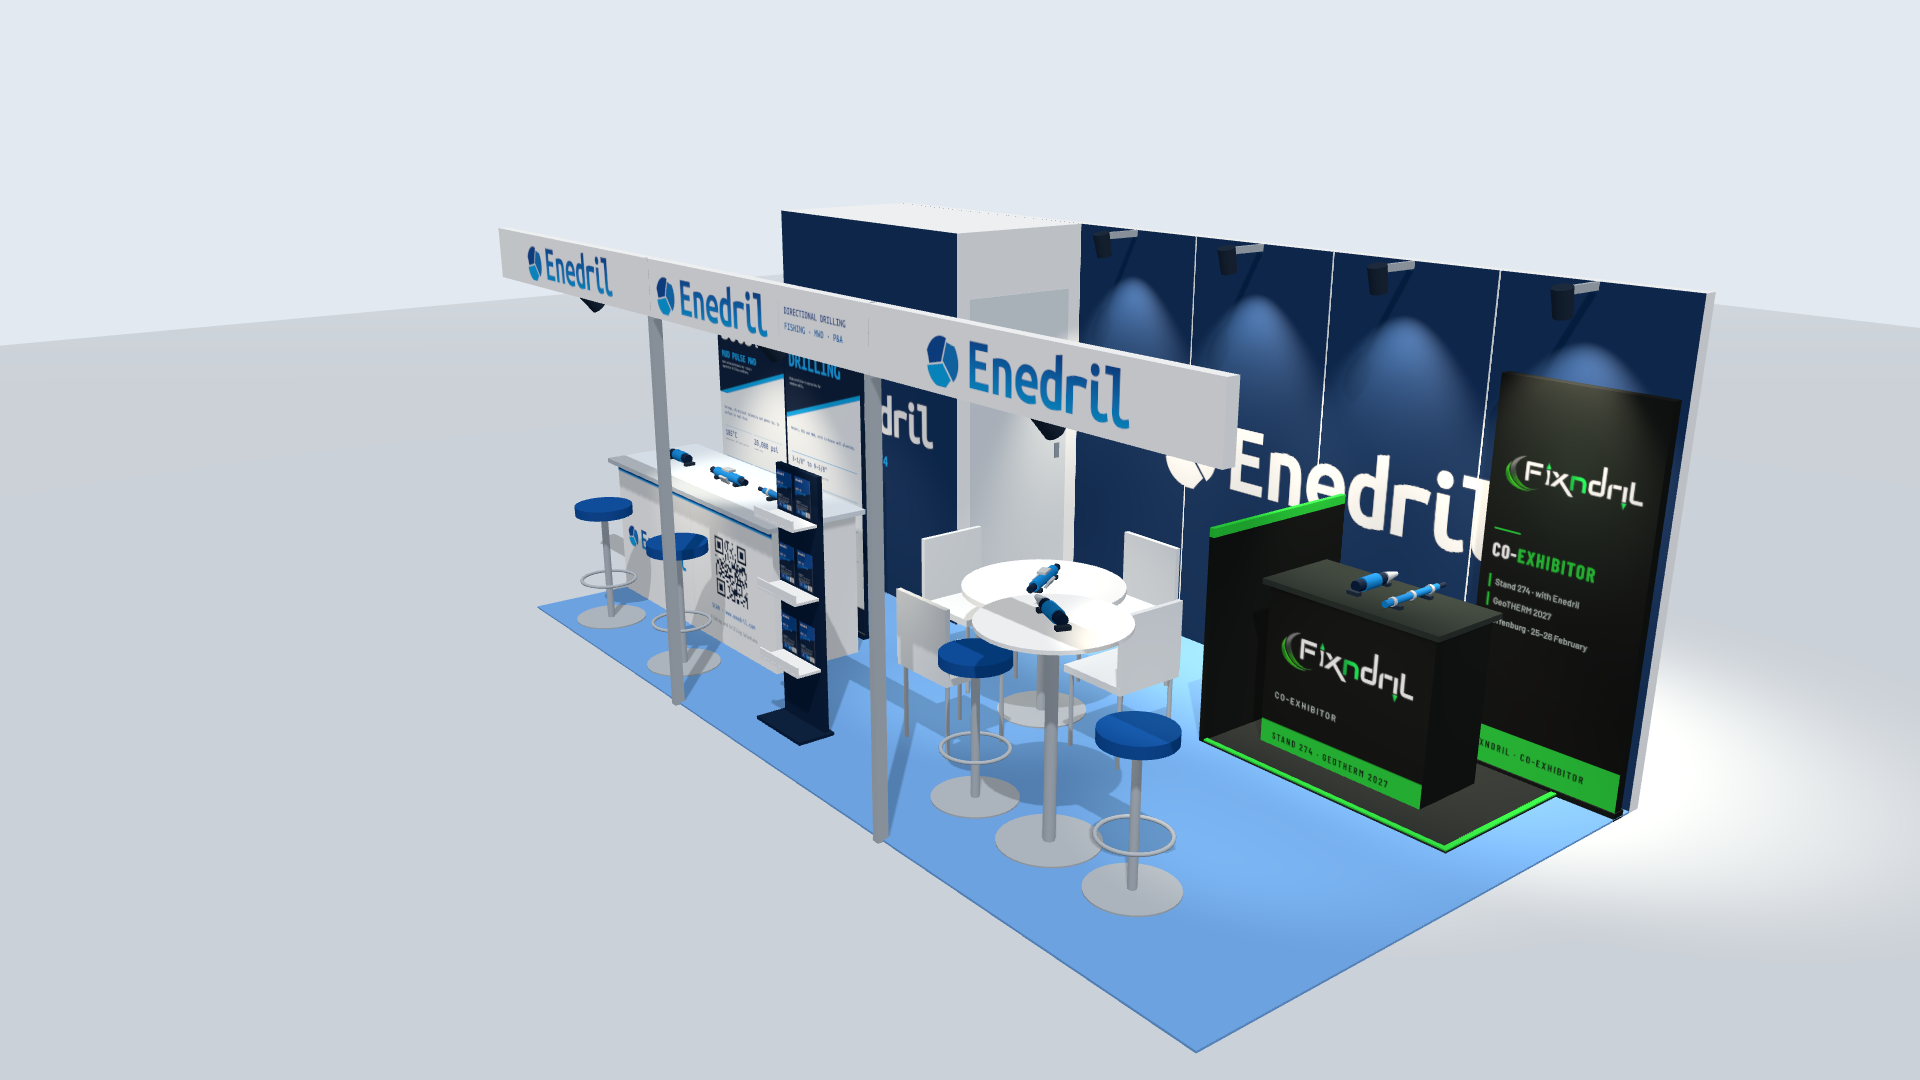
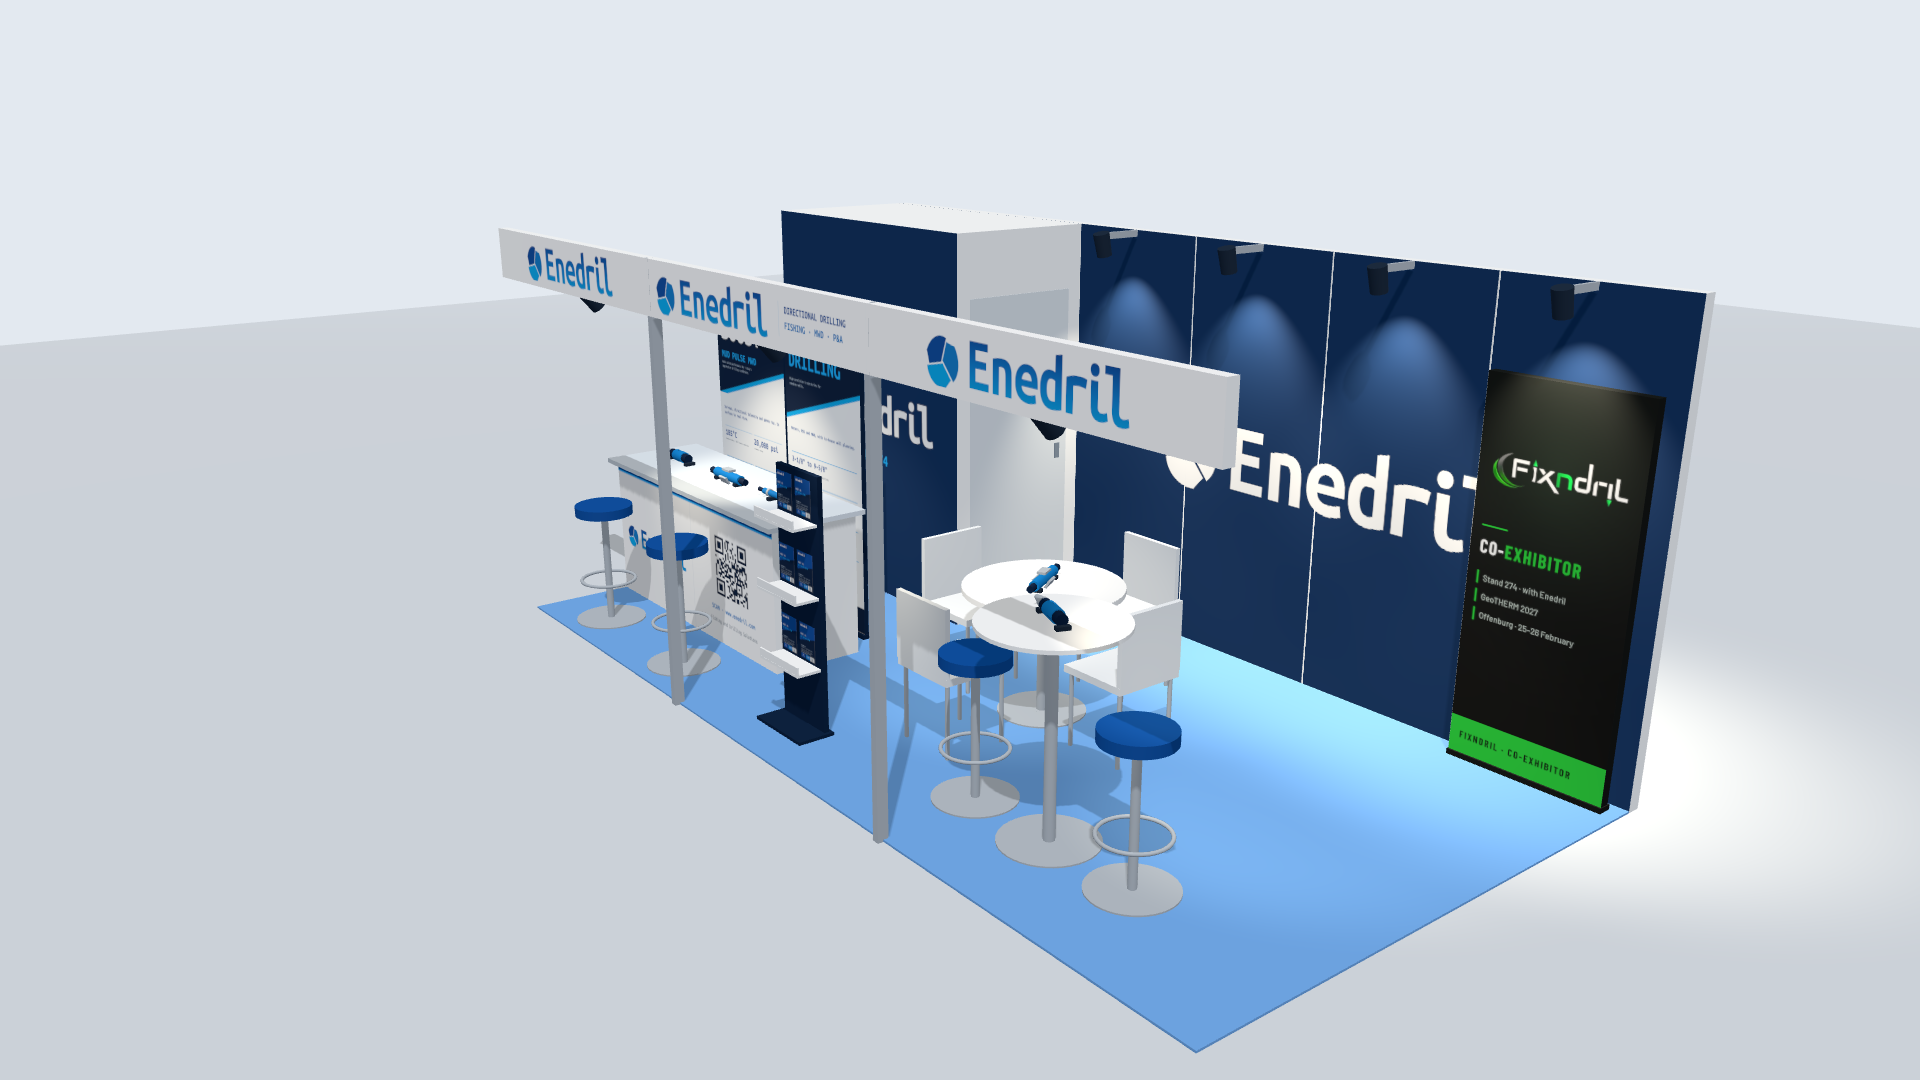
Stand 274: Fixndril reduit a un roll-up (sans comptoir personnalise), vues et options regenerees
Claude-Session: https://claude.ai/code/session_01XPwnZBmWUGhvYebrP3X3Z2

Changed region(s): [[0.625, 0.3361, 0.875, 0.7944]]

diff --git a/stand-geotherm-2027/00_Plan_et_3D/source_3D/stand3d.html b/stand-geotherm-2027/00_Plan_et_3D/source_3D/stand3d.html
@@ -90,15 +90,9 @@ function spotFx(x,y,z,tx,ty,tz,inten,ang){const g=new THREE.Group();
 [.5,1.5,2.5,3.5].forEach(y=>{box(2.72,3.0,y-.01,y+.01,2.46,2.5,CHROME);spotFx(2.72,y,2.43,3.0,y,1.3,7,.7);});
 [1.0,3.0,5.0].forEach(y=>spotFx(.1,y,2.17,1.3,y,.7,4,.5));
 
-// ---- espace FIXNDRIL (co-exposant), séparé de l'espace Enedril : angle sud-est ; noir et vert (charte Fixndril)
-const FG=std(0x27CC3A,.5),BLK=std(0x101312,.55);
-box(1.95,3,.3,1.8,.012,.022,std(0x1C2220,.95));                                   // moquette anthracite
-box(1.95,1.98,.3,1.8,.022,.03,FG);box(1.95,3,.3,.33,.022,.03,FG);                 // seuil vert (ouest) et bord sud
-box(1.95,3,1.8,1.83,0,1.15,BLK);box(1.95,3,1.8,1.83,1.15,1.2,FG);                 // cloison de séparation avec l'espace Enedril
-(function(){const xc=2.9,yc=.43;box(xc-.04,xc+.04,yc-.43,yc+.43,0,.04,BLK);box(xc-.03,xc+.03,yc-.425,yc+.425,.04,2.04,BLK);face(tex('fx_rollup'),'W',xc-.0305,yc,1.04,.85,2.0);})();
-box(2.2,2.65,.62,1.62,0,.9,BLK);box(2.17,2.68,.59,1.65,.9,.93,std(0x2A322E,.35));
-face(tex('fx_front'),'W',2.199,1.12,.45,1.0,.9);
-tool('cutter',2.45,1.2,.93,0);tool('mwd',2.45,.95,.93,0);
+// ---- FIXNDRIL (co-exposant) : un seul roll-up noir et vert, adossé au mur du fond (angle sud-est), sans comptoir personnalisé
+const BLK=std(0x101312,.55);
+(function(){const xc=2.9,yc=.5;box(xc-.04,xc+.04,yc-.43,yc+.43,0,.04,BLK);box(xc-.03,xc+.03,yc-.425,yc+.425,.04,2.04,BLK);face(tex('fx_rollup'),'W',xc-.0305,yc,1.04,.85,2.0);})();
 // ---- lumières
 sc.add(new THREE.HemisphereLight(0xFFFFFF,0x9AA6B5,1.7));
 const dl=new THREE.DirectionalLight(0xFFFFFF,1.4);dl.position.copy(V(-3,-2,10));dl.target.position.copy(V(1.5,3,0));sc.add(dl,dl.target);
@@ -118,8 +112,8 @@ const CAMS={
  rangement:[[-3.0,2.2,1.6],[2.2,5,1.3],50],
  presentoir:[[-1.8,2.0,1.4],[.4,3.3,.8],50],
  interieur:[[2.3,1.95,1.7],[0.3,4.3,.8],62],
- fixndril:[[0.3,1.0,1.45],[2.7,1.1,.95],62],
- fixndril_nord:[[-2.8,2.2,2.6],[2.5,.9,.9],45],
+ fixndril:[[0.8,0.9,1.4],[2.9,.5,1.1],55],
+ fixndril_nord:[[-2.8,2.2,2.6],[2.7,.7,.9],45],
  fixndril_haut:[[-2.6,2.6,3.4],[2.2,1.0,.8],46],
 };
 let cam;
